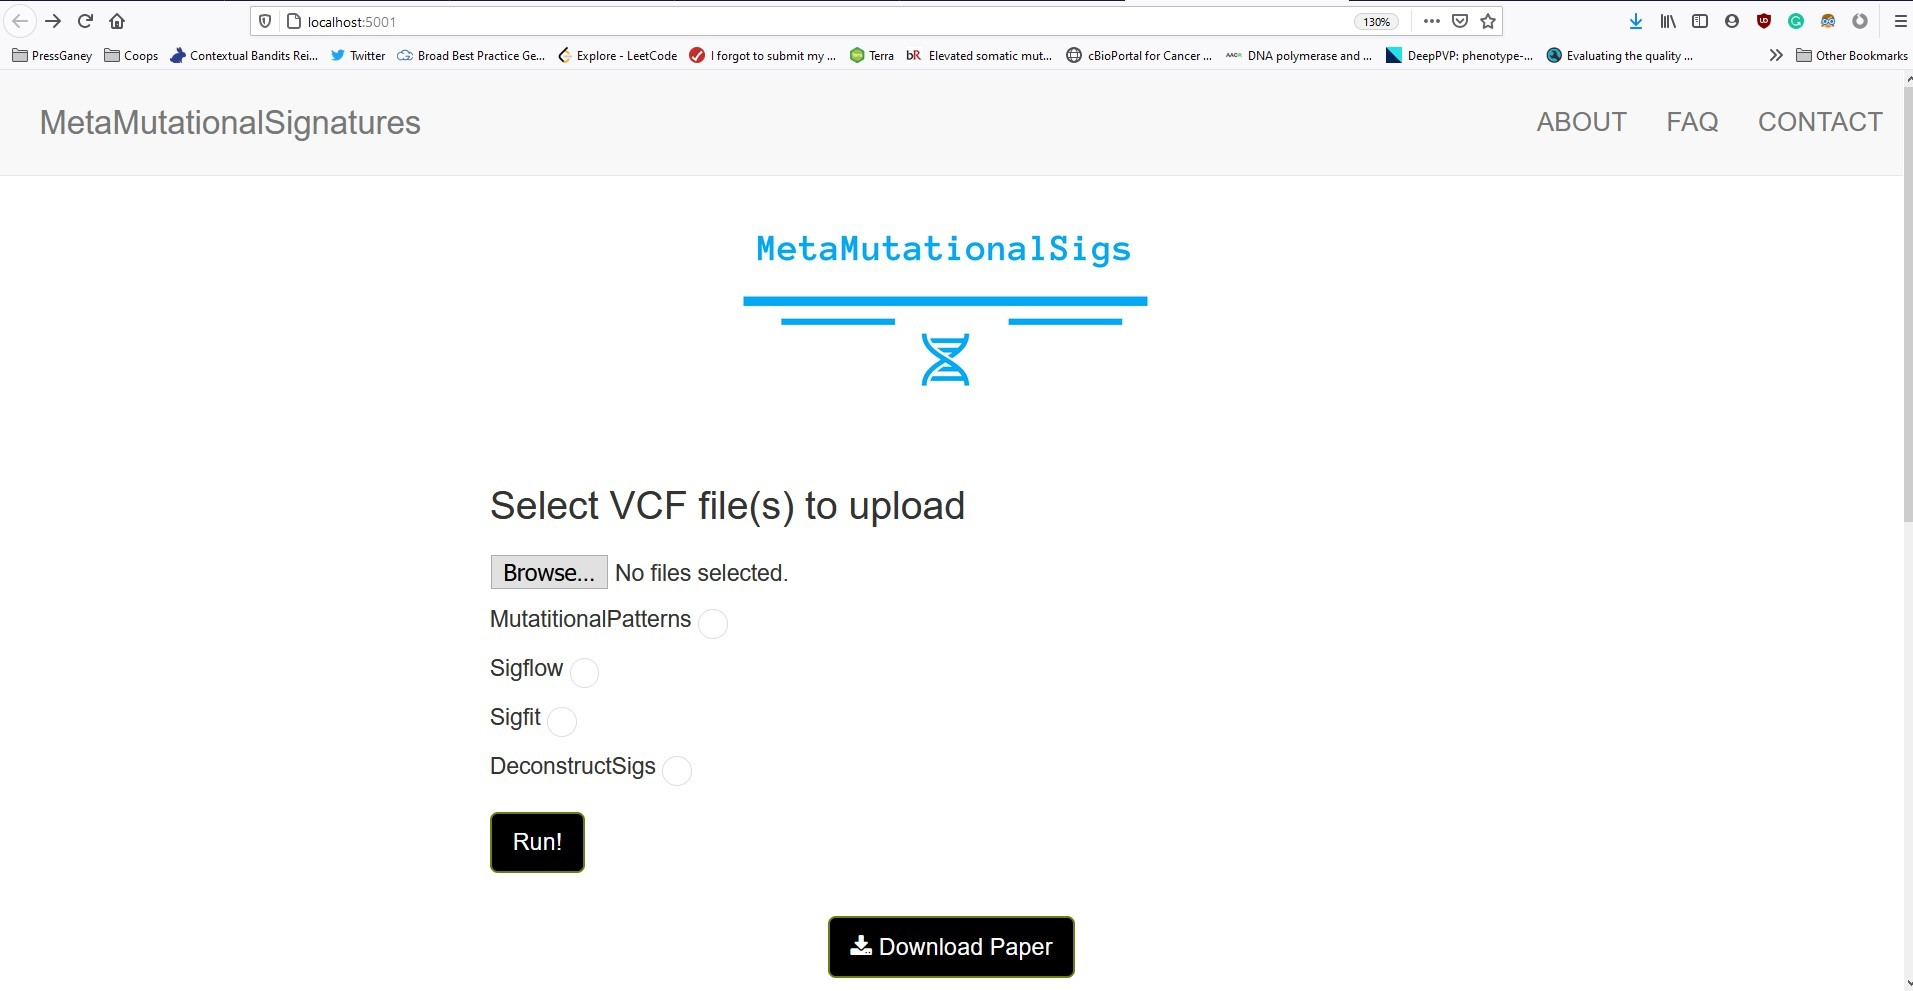
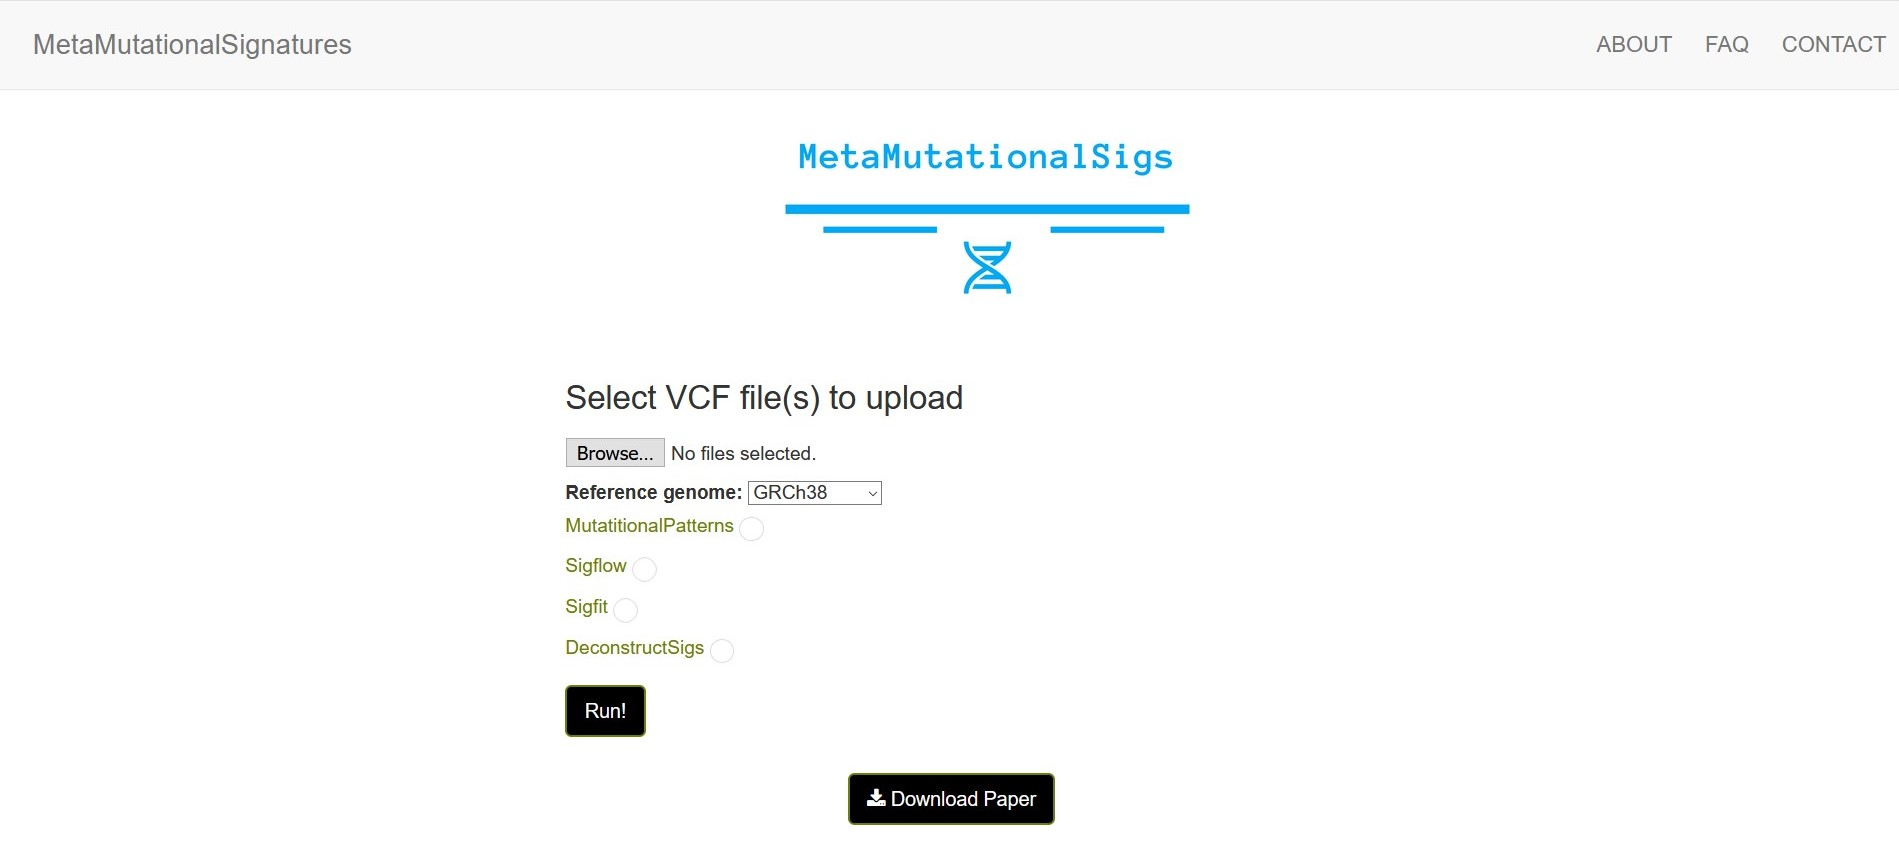
update version in readme

diff --git a/README.md b/README.md
@@ -1,6 +1,9 @@
 # MetaMutationalSigs
 ![Logo](flask_ui_app/static/cover_photo.png) <br>
 
+![Docker Cloud Build Status](https://img.shields.io/docker/cloud/build/pp535/metamutationalsigs) ![Docker Image Size (tag)](https://img.shields.io/docker/image-size/pp535/metamutationalsigs/latest)
+![Docker Pulls](https://img.shields.io/docker/pulls/pp535/metamutationalsigs)
+
 Mutational signature analysis is very active and important area of interest. There are several packages available now for mutational signature analysis and they all use different approaches and give nontrivially different results. Because of the differences in their results, it is important for researchers to survey the available tools and make choose the one that best suits their application. There is a need for software that can aggregate the results from different packages and present them in a user friendly way so as to facilitate effective comparison. 
 
 We created this package *MetaMutationalSigs* to facilitate comprehensive mutational signature analysis by creating a wrapper for different packages and providing a standard format for their outputs so that they can be effectively compared. We have also standardized the input formats accepted by various packages so ease interoperability. We also create standard visualizations for the results of all packages to ensure easy analysis. Our software is easy to install and use through Docker ,a package manager that automates the dependencies. 
@@ -8,20 +11,21 @@ We created this package *MetaMutationalSigs* to facilitate comprehensive mutatio
 
 ## Install Using Docker
 
-docker pull pp535/metamutationalsigs
+``docker pull pp535/metamutationalsigs``
 
+The docker image can be found at dockerhub here: 
 https://hub.docker.com/r/pp535/metamutationalsigs 
 
 ### Input: 
 VCF files.
 
 To run *metamutationalsigs* without using *sigflow* and *sigfit* on the data from your VCF file directory `C:\Users\...full_path...\docker_input_test`.  Just replace ``C:\Users\...full_path...\docker_input_test/`` with absolute path to your input directory that has VCF files. The results will be in a zipped file in your input directory.<br> 
-``docker run --rm -it -v C:\Users\...full_path...\docker_input_test/:/app/input_vcf_dir test  --i "input_vcf_dir" --sigflow --sigfit``
+``docker run --rm -it -v C:\Users\...full_path...\docker_input_test/:/app/input_vcf_dir pp535/metamutationalsigs  --i "input_vcf_dir" --sigflow --sigfit``
 
 
 We have browser UI available as well: <br>
 
-``docker run --rm -it -p 5001:5001 -v C:\Users\...full_path...\docker_input_test/:/app/input_vcf_dir test  --browser``
+``docker run --rm -it -p 5001:5001 -v C:\Users\...full_path...\docker_input_test/:/app/input_vcf_dir pp535/metamutationalsigs --browser``
 
 Just replace ``C:\Users\...full_path...\docker_input_test/`` with absolute path to your input directory that has VCF files. Then go to your browser at http://localhost:5001/ for the browser user interface.
 
@@ -69,6 +73,15 @@ Here is a summary of the files generated:
 
 Omichessan, H., Severi, G., & Perduca, V. (2019). Computational tools to detect signatures of mutational processes in DNA from tumours: A review and empirical comparison of performance. PLOS ONE, 14(9), e0221235. https://doi.org/10.1371/journal.pone.0221235  
 
+### What reference genomes are supported? 
+
+MetamutationalSigs supports: 
+
+GRCh37/ hg19 *Homo sapiens*<br> 
+GRCh38/ hg38 *Homo sapiens*<br> 
+GRCm37/ mm9 *Mus musculus*<br> 
+GRCm38.p6/ mm10 *Mus musculus*<br> 
+Rnor_6.0/ rn6 *Rattus norvegicus*<br>
 
 ### What is the format for my files? 
 
@@ -80,6 +93,4 @@ All analysis is run locally. No data leaves your computer. The web browser user 
 
 ## Changelog
 - V1 - COSMIC reference signatures V3.1 June 2020
-
-## In progress
-- V2 - COSMIC reference signatures updated to V3.2 March 2020
+- V2* Current - COSMIC reference signatures updated to V3.2 March 2020
